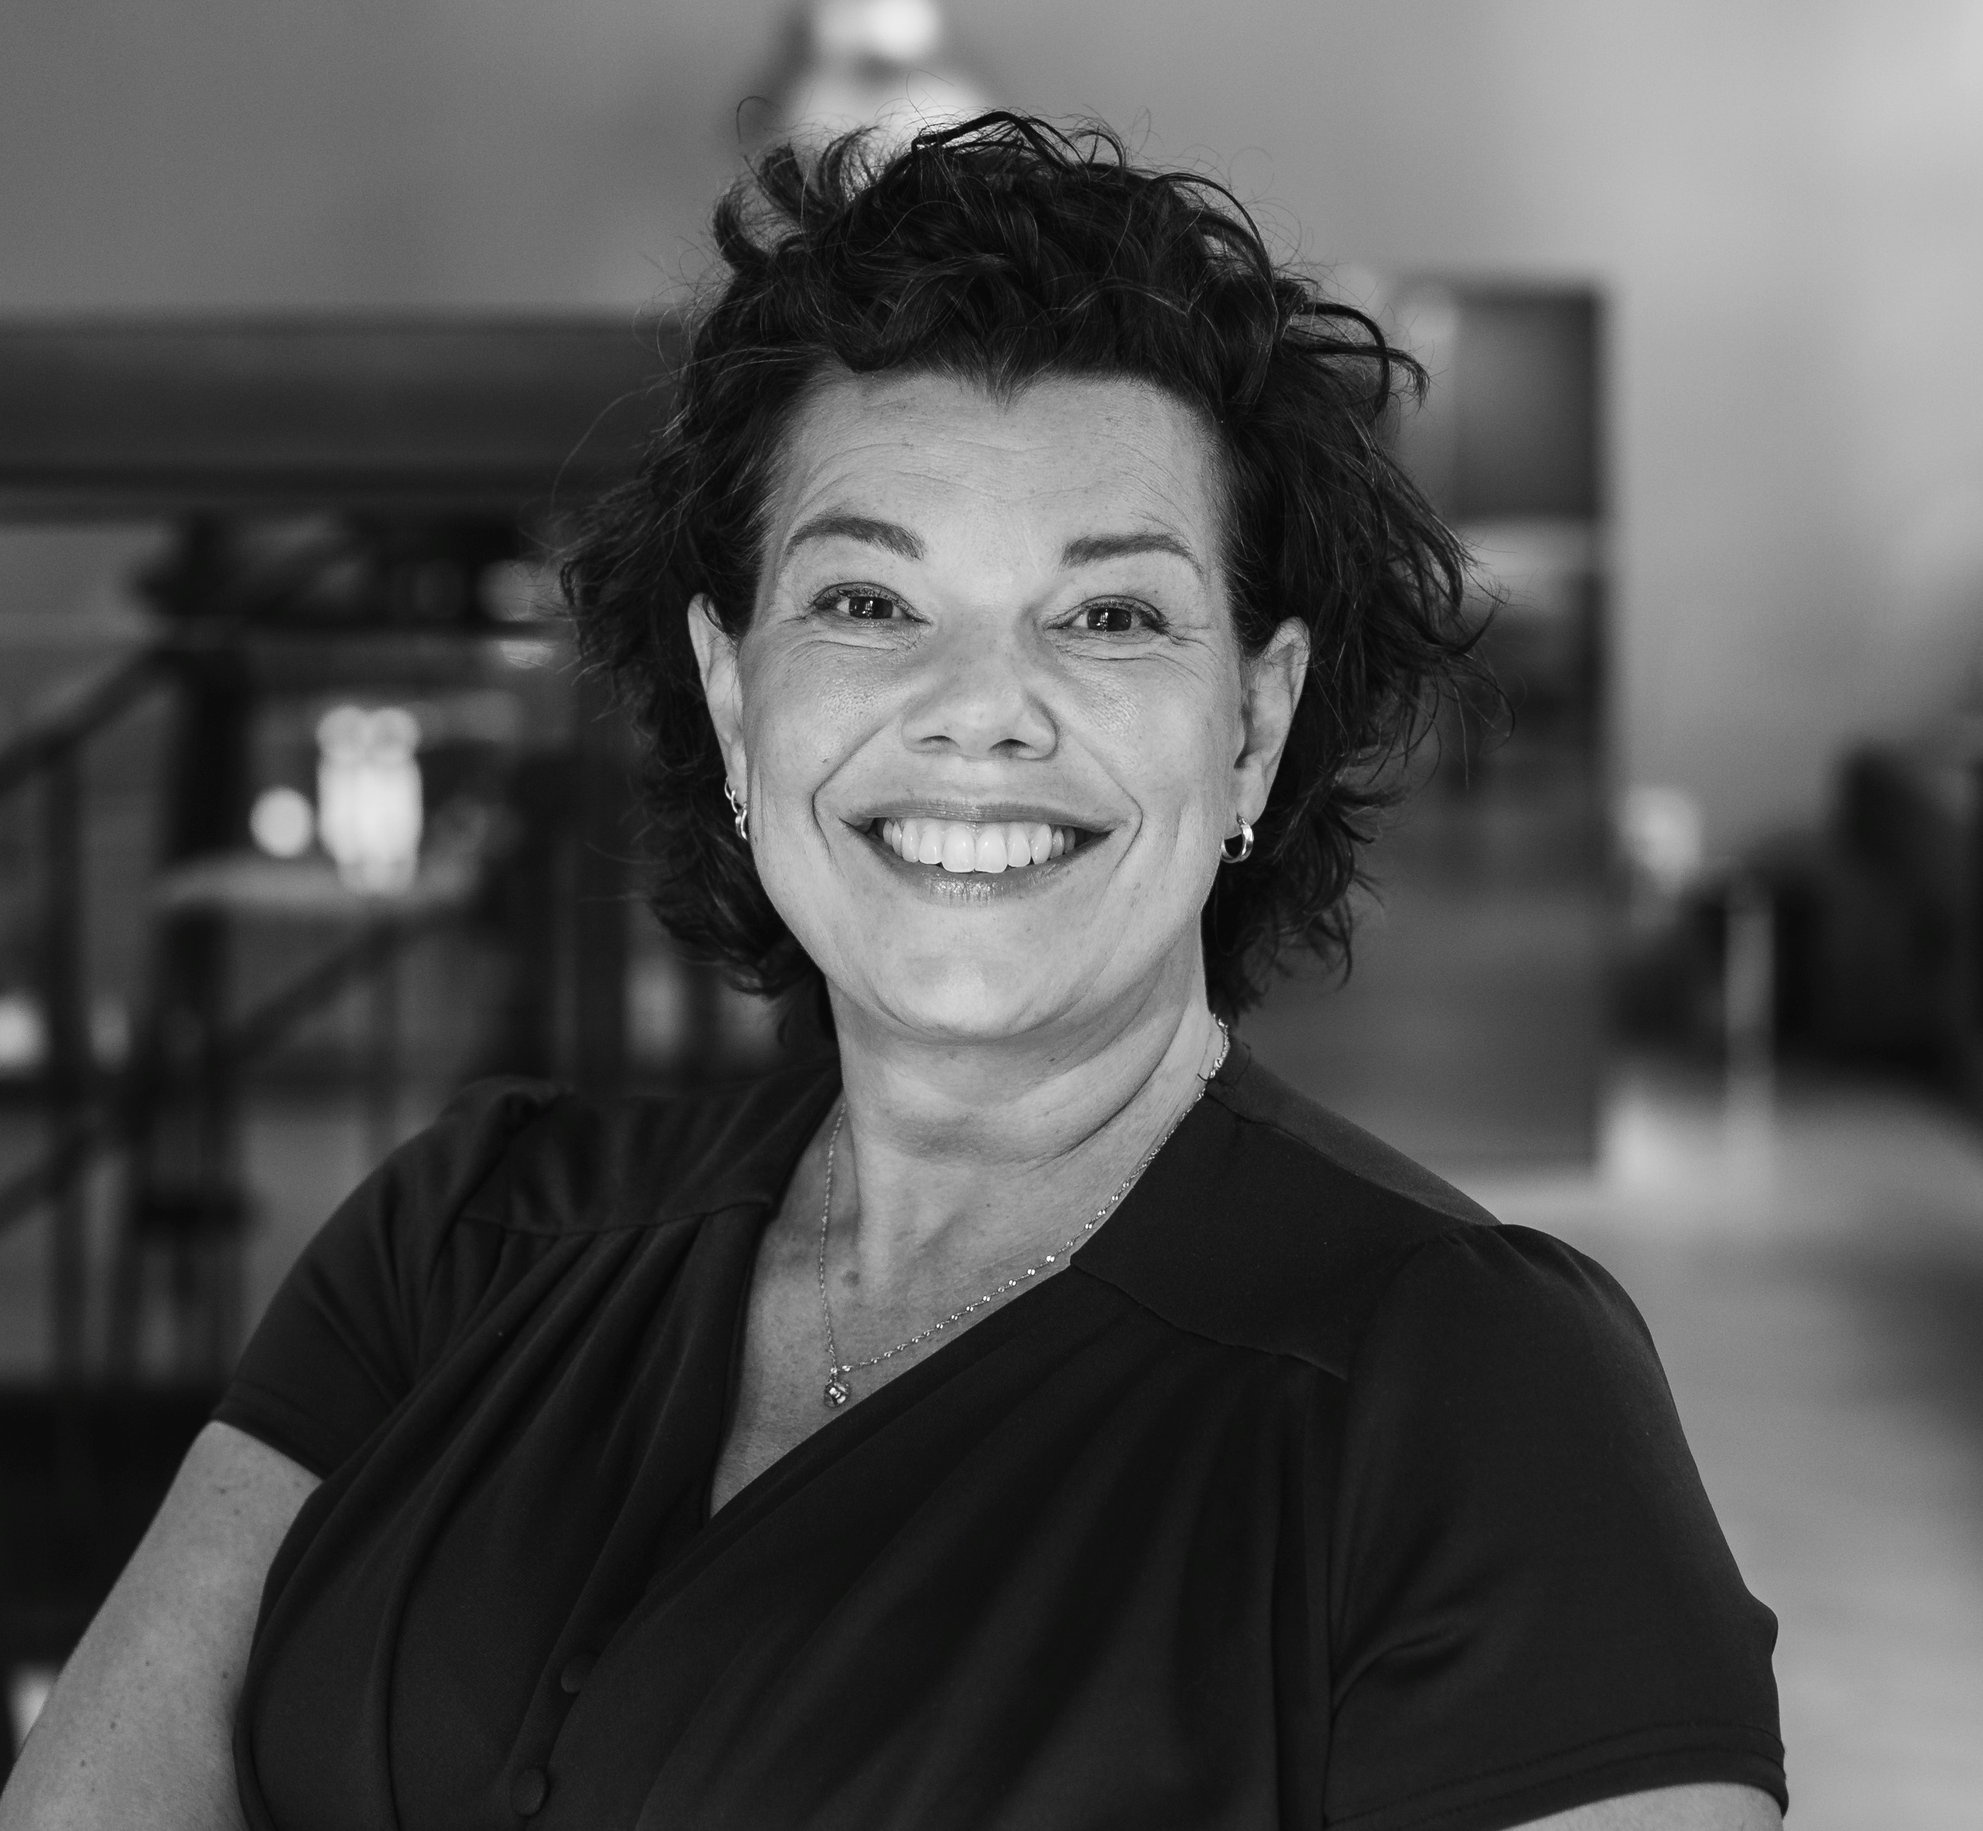
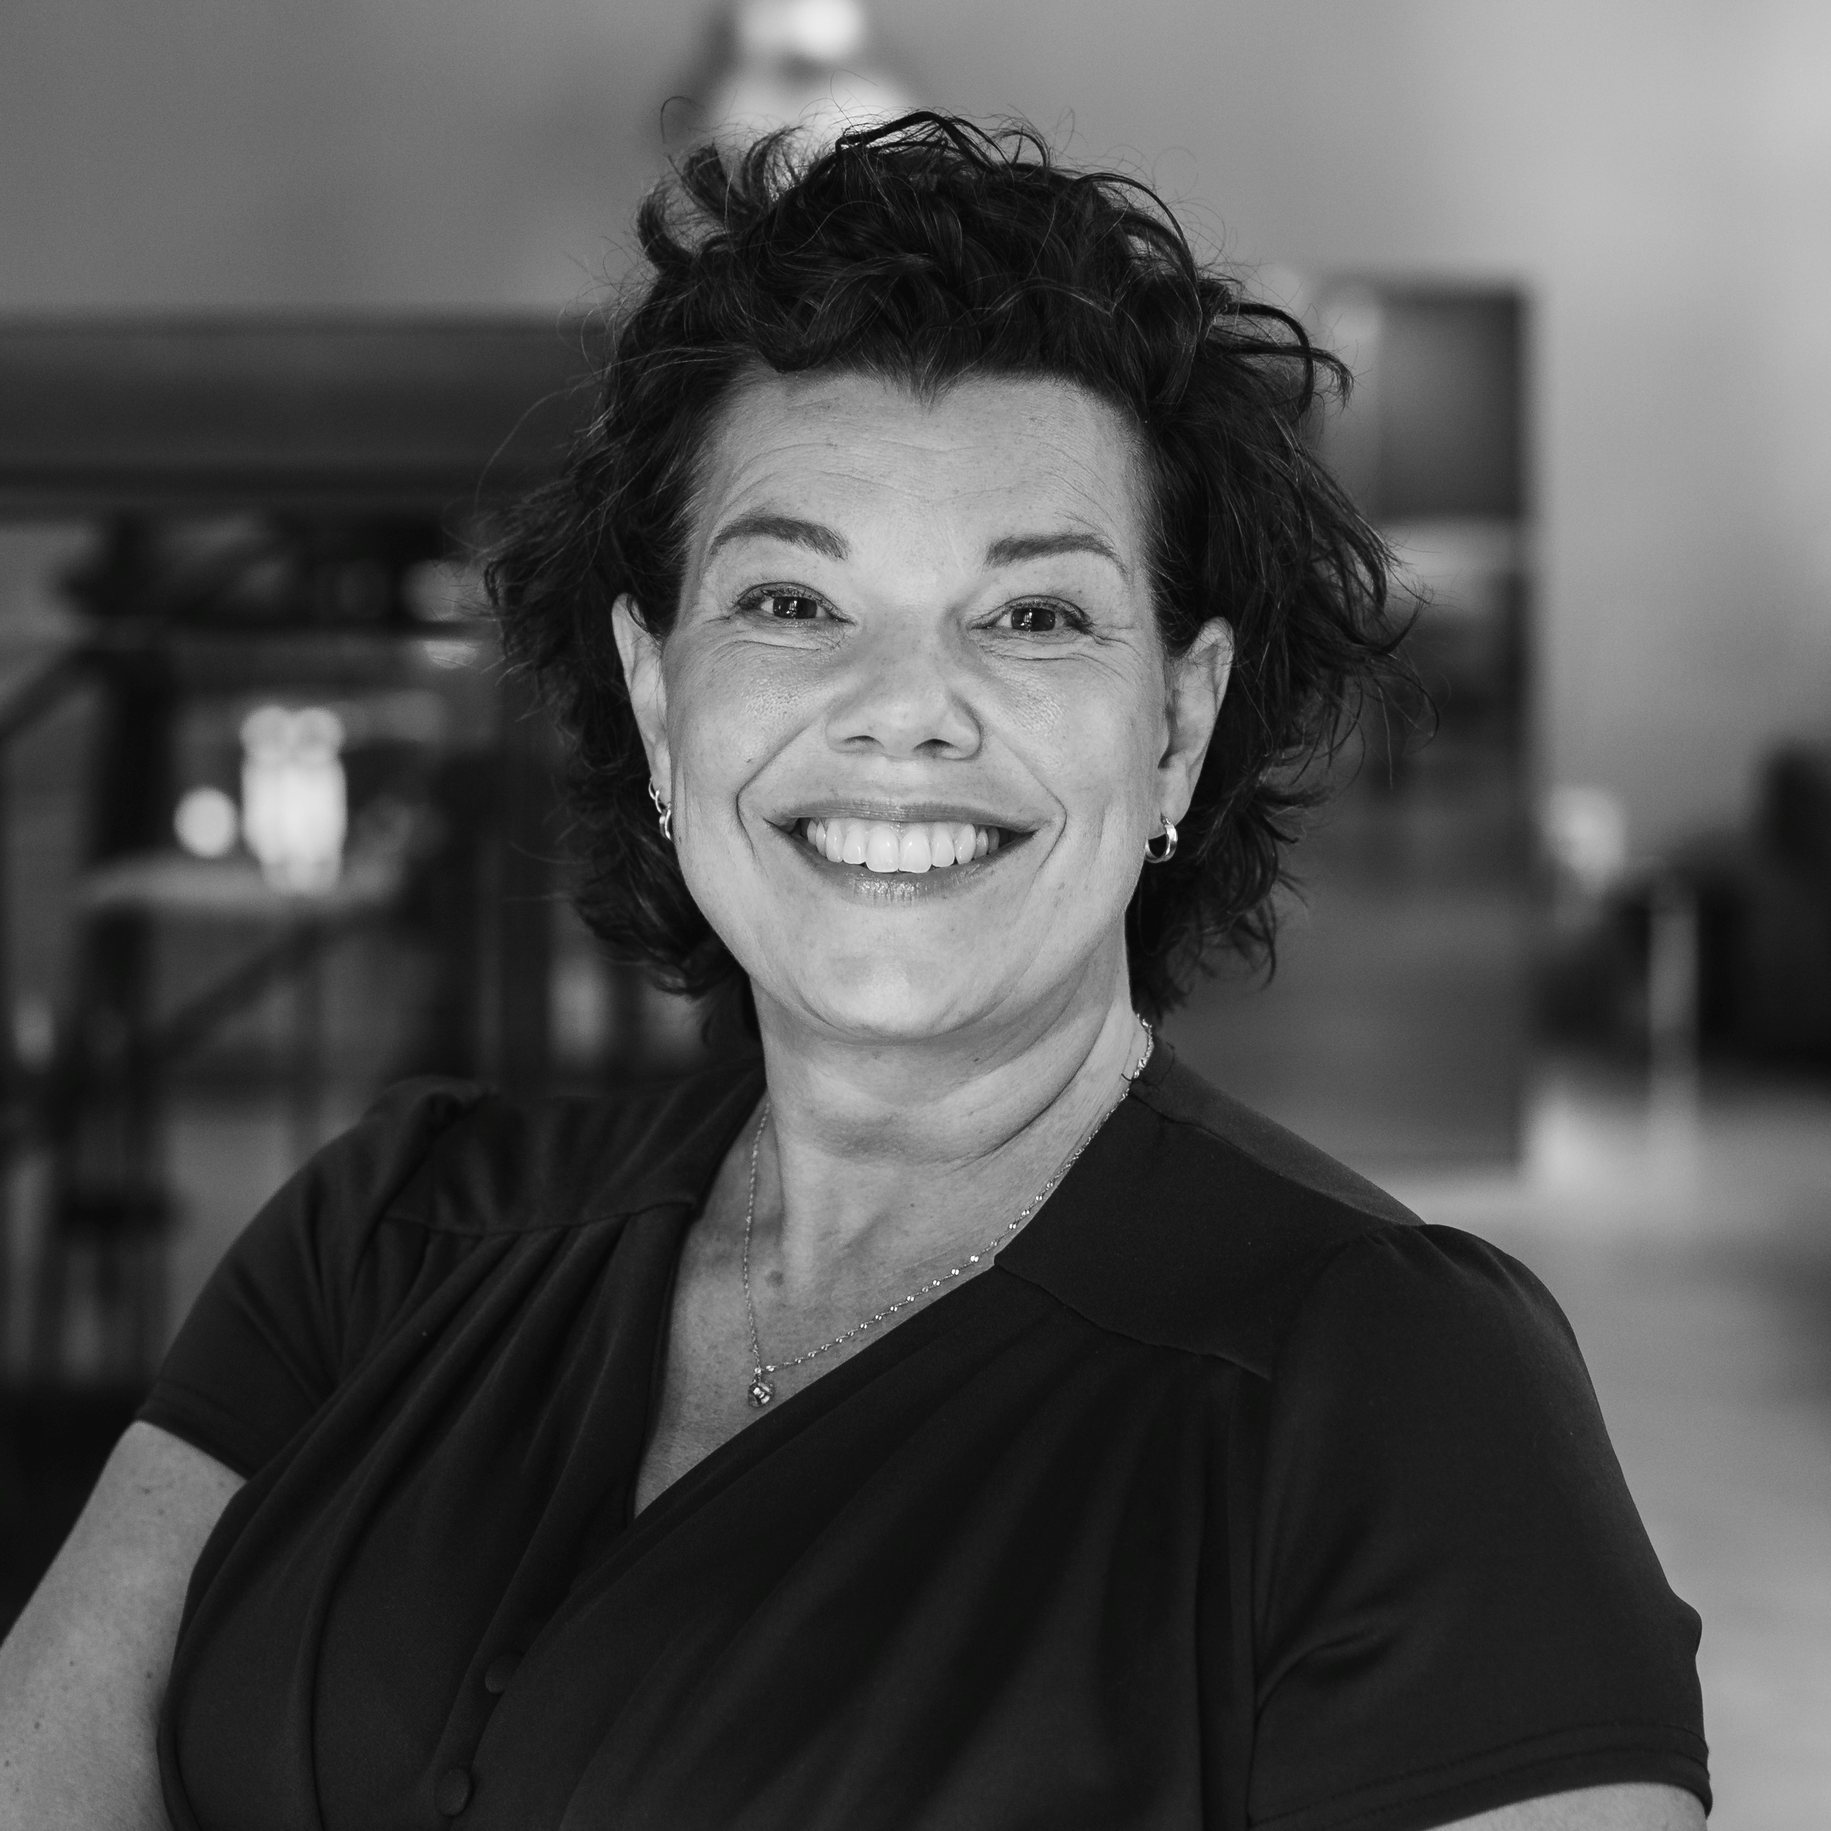
added new image and fixed responsiveness to imgtext

diff --git a/src/components/about/About.tsx b/src/components/about/About.tsx
@@ -1,9 +1,21 @@
+import React from "react";
 import about from "../../assets/img/about/about.jpg";
 import ImgText from "../img-text/img-text";
-import test from '../../assets/img/keys-img/relationer.jpg';
+import profile_1 from "../../assets/img/about/profile_1.jpg";
 
 const About: React.FC = () => {
-  const text = " Min stora förändring började för ca 13 år sedan då jag fick en utmattningsdepression. Jag var väldigt illa däran och fick bra hjälp från sjukvården men kände att den inte räckte hela vägen. Jag hade möjligheten att göra en storstädning som hölls av dåvarande Icoach. Genom det fick jag upptäcka vem jag faktiskt var och varför jag var den jag var. Vi gjorde en djupdykning bland dåliga minnen och rensa bort det jag bärt med mig som en jättestor ryggsäck under åren. Saker som inte jag behövde bära på, saker jag kunde lägga där de hörde hemma";
+  const [isMobile, setIsMobile] = React.useState<boolean>(isMobileInitial());
+
+  function isMobileInitial(): boolean {
+    if (window.innerWidth <= 760) {
+      return true;
+    }
+    return false;
+  }
+
+  const text =
+    "Min stora förändring började för ca 13 år sedan då jag fick en utmattningsdepression. Jag var väldigt illa däran och fick bra hjälp från sjukvården men kände att den inte räckte hela vägen. Jag hade möjligheten att göra en storstädning som hölls av dåvarande Icoach. Genom det fick jag upptäcka vem jag faktiskt var och varför jag var den jag var. Vi gjorde en djupdykning bland dåliga minnen och rensa bort det jag bärt med mig som en jättestor ryggsäck under åren. Saker som inte jag behövde bära på, saker jag kunde lägga där de hörde hemma";
+
   return (
     <section id="about-component" className="about-component content-section">
       <div className="right-section">
@@ -13,46 +25,18 @@ const About: React.FC = () => {
               <h3 className="dance-script-headline title">Bakgrund</h3>
             </div>
             <div className="about-wrapper">
-
-              <ImgText text={text} headline="Om mig" img={about} imgRight={true} />
-              <ImgText text={text} headline="Om mig" img={about} imgRight={false} />
-              <ImgText text={text} headline="Om mig" img={about} imgRight={true} />
-
-              {/* <img className="about-img" src={about} alt="" />
-              <div className="text-section">
-                <h1>Om mig</h1>
-                <p className="paragraph">
-                  Min stora förändring började för ca 13 år sedan då jag fick en
-                  utmattningsdepression. Jag var väldigt illa däran och fick bra
-                  hjälp från sjukvården men kände att den inte räckte hela
-                  vägen. Jag hade möjligheten att göra en storstädning som hölls
-                  av dåvarande Icoach. Genom det fick jag upptäcka vem jag
-                  faktiskt var och varför jag var den jag var. Vi gjorde en
-                  djupdykning bland dåliga minnen och rensa bort det jag bärt
-                  med mig som en jättestor ryggsäck under åren. Saker som inte
-                  jag behövde bära på, saker jag kunde lägga där de hörde hemma
-                  {/* och där ansvaret låg. Tidigare gjorde jag som andra sa,
-                  tyckte, gjorde och tänkte Jag gjorde som “man ska” hade duktig
-                  flicka syndromet. Men genom att jag fick se vem jag var och
-                  varför jag var den jag var kunde jag förändras. Jag började
-                  lyssna på mig själv, stod upp för mig själv och kunde sätta
-                  gränser både för mig själv men även för andra, jag hittade
-                  mitt värde och förstod att jag är viktig och jag är bra. Mitt
-                  liv har vart allt annat än en rak fin väg tvärtom har det vart
-                  fylld med stora vägbulor och tvära svängar och för 3 år sedan
-                  fick jag min cancer diagnos följd av en operation, intensiv
-                  cytostatika behandling och strålning. Man ändras efter en
-                  sådan resa både mentalt och fysiskt. Jag mår oerhört bra idag,
-                  livet är en resa, brukar man säga vilket är väldigt sant och
-                  vissa får lite mer att bita i en andra så är det. Men på
-                  vilket sätt tacklar vi motgången och hur hittar vi tillbaka
-                  till vår kärna. Med rätt hjälp och bra verktyg kan mycket
-                  förändras. Jag jobbar m bla 6 nycklar, framtagna av Go beyond
-                  som ägs av Helena Brolander, Men även terapeutiskasamtal,
-                  coachande och stöttande samtal. Vi hittar det som kan passa
-                  just dig 🌸 
-                </p>
-              </div> */}
+              <ImgText
+                text={text}
+                headline="Om mig"
+                img={profile_1}
+                imgRight={true}
+              />
+              <ImgText
+                text={text}
+                headline="Om mig"
+                img={about}
+                imgRight={isMobile ? true : false}
+              />
             </div>
           </div>
         </article>

diff --git a/src/components/coaching-info/coaching-info.tsx b/src/components/coaching-info/coaching-info.tsx
@@ -1,6 +1,4 @@
 import React from "react";
-import { scrollToId } from "../../domain/core/animations";
-import PriceCard from "../pricing/price-card";
 
 const CoachingInfo: React.FC = () => {
   return (
@@ -18,57 +16,6 @@ const CoachingInfo: React.FC = () => {
             Kanske kan du hitta de där livet du inte visste du ville leva.
           </p>
         </div>
-        {/* //!Should delete om hon inte verkligen vill ha kvar den */}
-        {/* <div
-          id="session-details-component"
-          className="session-details section-padding"
-        >
-          <div>
-            <div className="session-row text-section">
-              <div className="session-row-header">
-                <BiConversation />
-                <h2 className="title">Konversation</h2>
-              </div>
-              <p>
-                Lorem ipsum dolor sit amet consectetur adipisicing elit.
-                Consectetur eos dolorum eaque excepturi, natus facilis sequi
-                molestiae quam consequuntur rem voluptatibus a qui?
-              </p>
-            </div>
-            <div className="session-row text-section">
-              <div className="session-row-header">
-                <BiPhoneCall />
-                <h2 className="title">Telefonsamtal</h2>
-              </div>
-              <p>
-                Lorem ipsum dolor sit amet consectetur adipisicing elit.
-                Consectetur eos dolorum eaque excepturi, natus facilis sequi
-                molestiae quam consequuntur rem voluptatibus a qui?
-              </p>
-            </div>
-            <div className="session-row text-section">
-              <div className="session-row-header">
-                <BiBody />
-                <h2 className="title">Möte</h2>
-              </div>
-              <p>
-                Lorem ipsum dolor sit amet consectetur adipisicing elit.
-                Consectetur eos dolorum eaque excepturi, natus facilis sequi
-                molestiae quam consequuntur rem voluptatibus a qui?
-              </p>
-            </div>
-            <nav>
-              <a
-                className="contact-link btn btn-primary"
-                onClick={() => {
-                  scrollToId("contact");
-                }}
-              >
-                Kontakta mig!
-              </a>
-            </nav>
-          </div>
-        </div> */}
       </article>
     </section>
   );

diff --git a/src/sass/components/_img-text.scss b/src/sass/components/_img-text.scss
@@ -1,16 +1,39 @@
-.img-text-component {
-    img{
-        height: 400px;
+@media screen and (max-width: $tablet) {
+  .img-text-component {
+    img {
+      height: 400px;
     }
     .img-text-wrapper {
-        display: flex;
-        align-items: center;
-        justify-content: space-around;
+      display: flex;
+      flex-direction: column;
     }
-    .text-section{
-        width: 100%;
-        margin: 0;
-        background-color: white;
-        padding: 0 10%;
+    .text-section {
+      width: 100%;
+      margin: 0;
+      padding: 5% 10%;
+      background-color: #f2f5fe;
+      p {
+        width: clamp(30ch, 50%, 50ch);
+      }
     }
+  }
+}
+@media screen and (min-width: $desktop) {
+  .img-text-component {
+    margin-bottom: 8rem;
+    img {
+      height: 400px;
+    }
+    .img-text-wrapper {
+      display: flex;
+      align-items: center;
+      justify-content: space-around;
+    }
+    .text-section {
+      width: 100%;
+      margin: 0;
+      background-color: white;
+      padding: 0 10%;
+    }
+  }
 }
